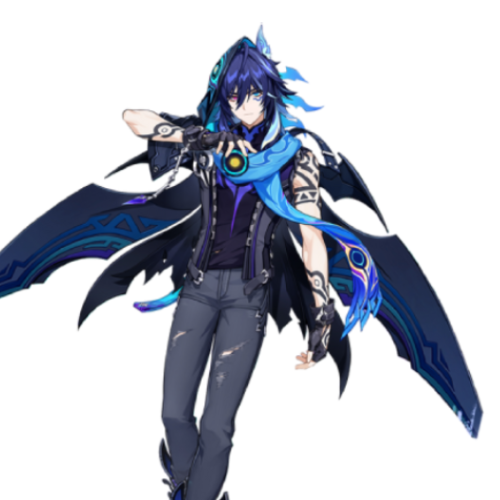
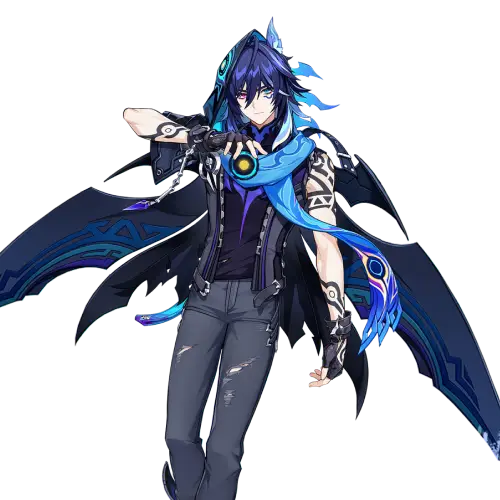
Better Quality Images

Changed region(s): [[0.0, 0.03, 1.0, 1.0], [0.06, 0.39, 0.15, 0.45], [0.03, 0.45, 0.06, 0.48]]

diff --git a/src/routes/_custom-banner/CustomEditor.svelte b/src/routes/_custom-banner/CustomEditor.svelte
@@ -218,7 +218,7 @@
 		width: 100%;
 		height: 100%;
 		display: block;
-		object-fit: contain;
+		object-fit: fill;
 		object-position: center;
 	}
 
